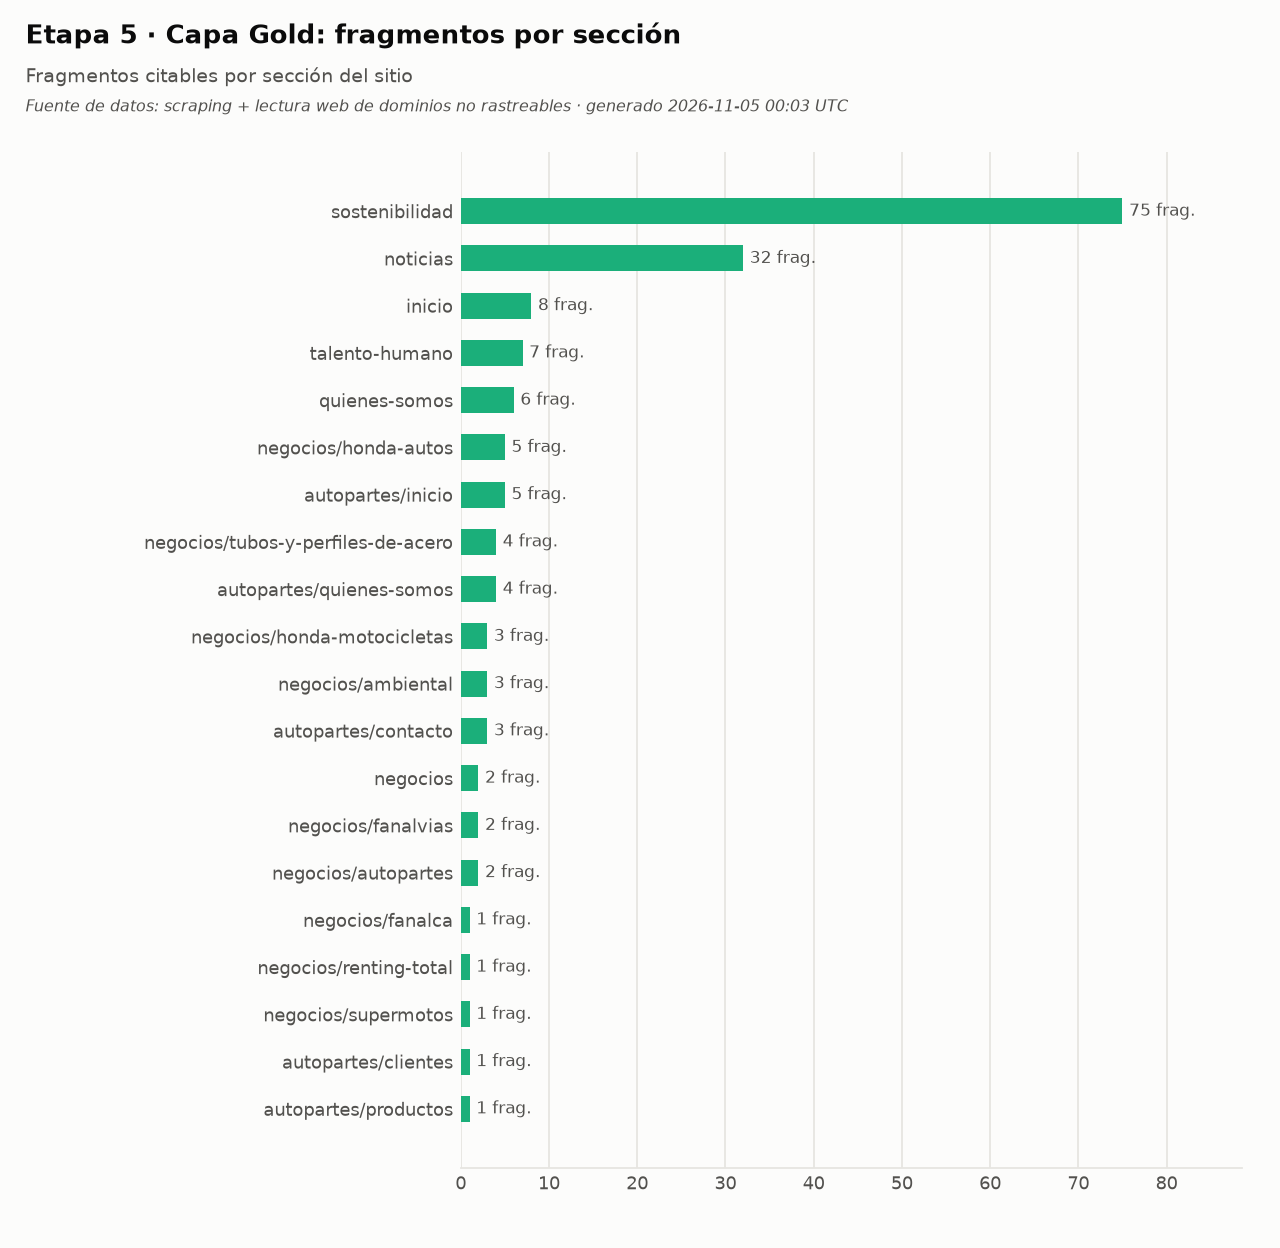
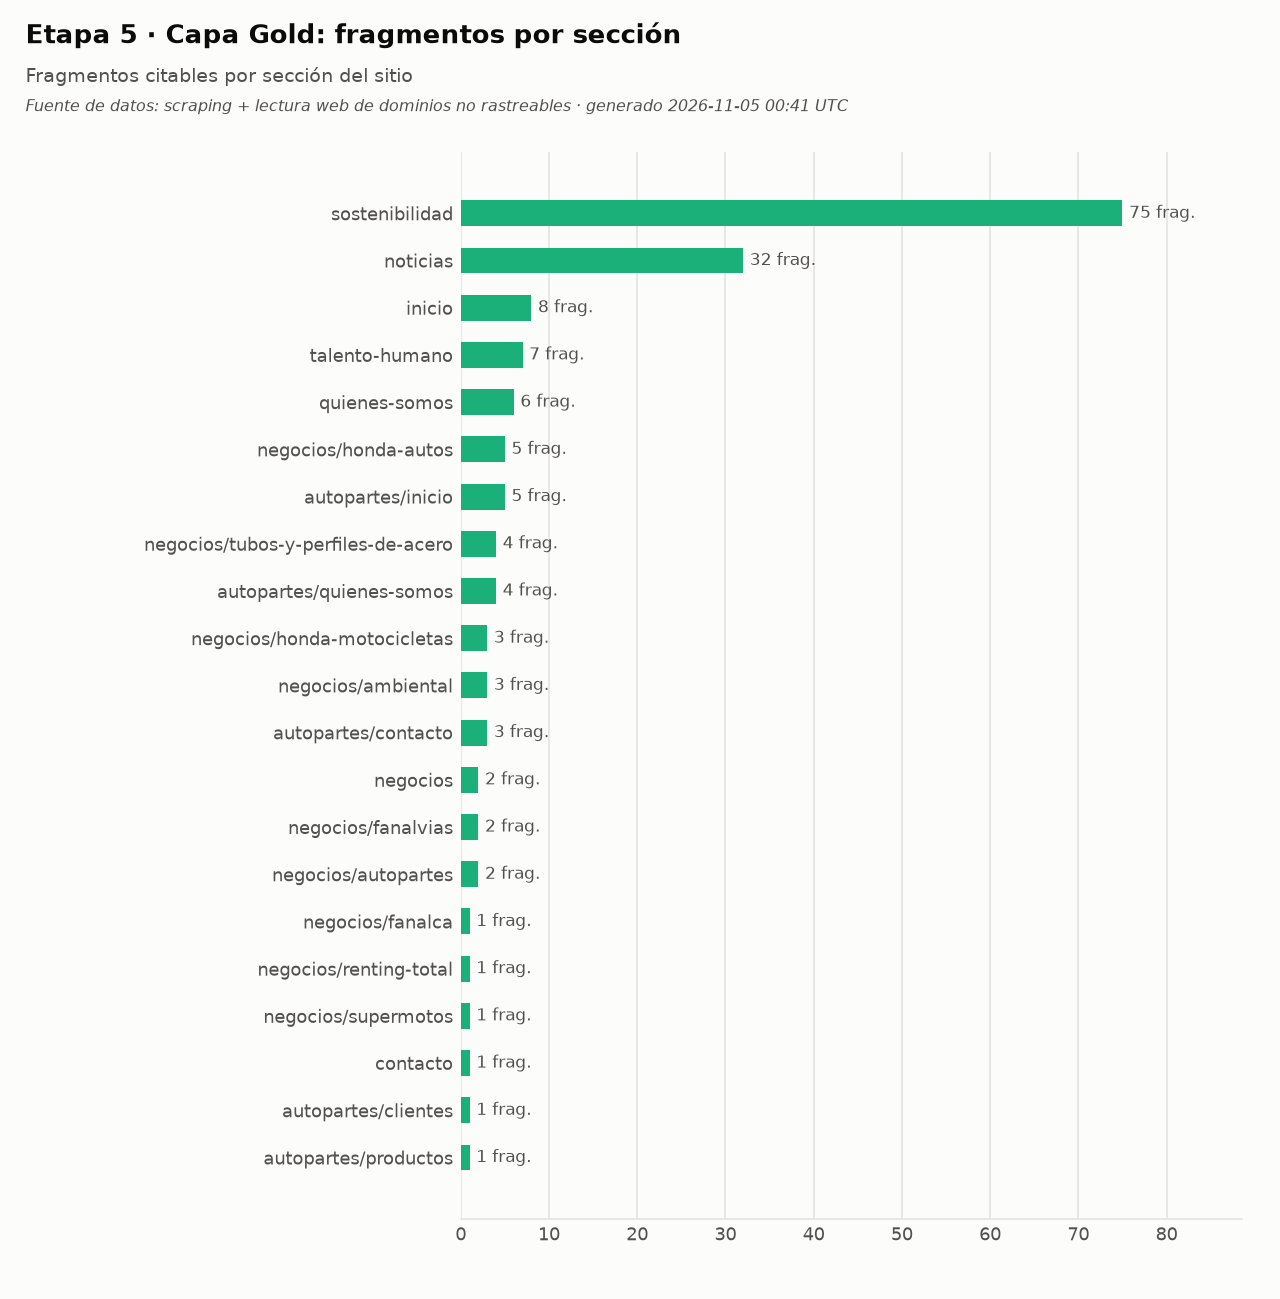
datos: reconstrucción de Silver/Gold y gráficas (2026-11-04)

diff --git a/data/gold/docs/contacto-sitio.md b/data/gold/docs/contacto-sitio.md
@@ -1,0 +1,15 @@
+---
+id: contacto-sitio
+fuente: https://fanalca.com/
+titulo: Datos de contacto del sitio fanalca.com (pie de página)
+seccion: contacto
+fecha_captura: '2026-11-05T00:41:08.381551+00:00'
+idioma: es
+tokens_aprox: 20
+origen: scraping
+sha256_texto: e110720e2a2702df075aef20242fe06fd33e1d9d67dc871130c847c0a26f31f8
+---
+
+# Datos de contacto publicados en el sitio
+
+- Calle 13 # 31A - 80, Acopi Yumbo.
